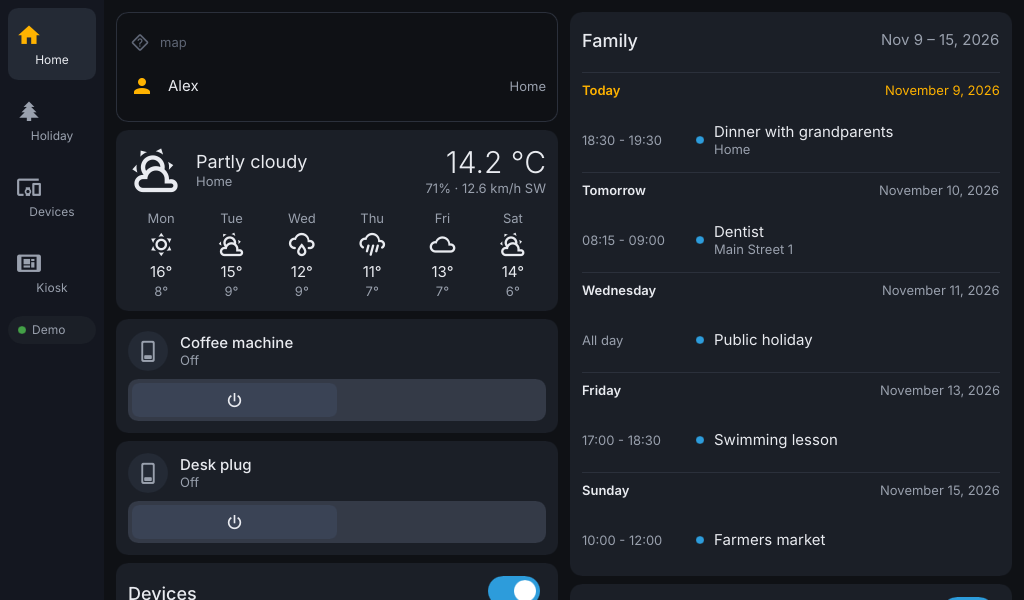
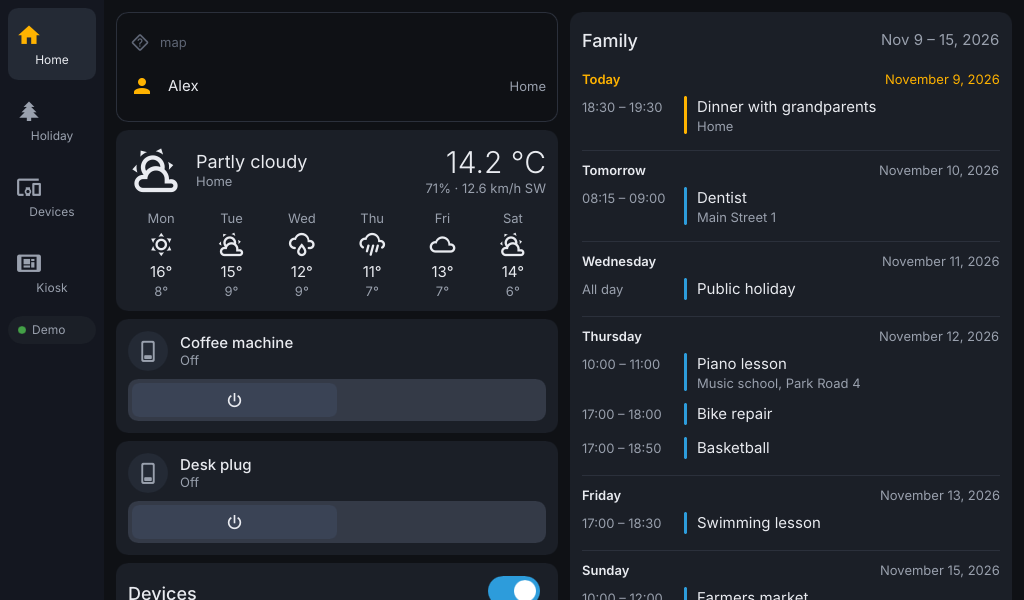
Calendar card: tighter, clearer agenda layout
Calendar rows no longer reuse the 48 px entities row. Day headers are compact
(no divider above the first day), a one-line event is 34 px, a 3 px bar
replaces the dot and spans the location line (amber for today), and the time
sits on the summary's line. Times use an en dash. The demo calendar gets a
busy day to show it.

Claude-Session: https://claude.ai/code/session_01WX3sFixJYap7m8TkwMzaqG

diff --git a/crates/hada/src/build_ui.rs b/crates/hada/src/build_ui.rs
@@ -319,7 +319,7 @@ pub fn calendar_rows(
         } else {
             match end {
                 Some(en) if en.has_time && en.same_day(&start) => {
-                    format!("{} - {}", start.time_label(), en.time_label())
+                    format!("{} – {}", start.time_label(), en.time_label())
                 }
                 _ => start.time_label(),
             }
